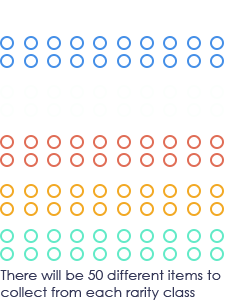
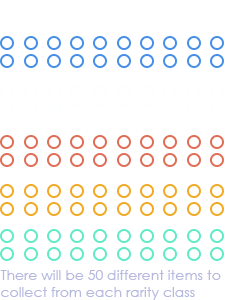
# Changed Gizer Token Section

Changed region(s): [[0.0, 0.9, 0.9956, 1.0]]

diff --git a/src/app/shared/components/gzr-token/gzr-token.component.html b/src/app/shared/components/gzr-token/gzr-token.component.html
@@ -24,10 +24,10 @@
       <div class="img-group">
         <div class="row">
           <div class="col-sm-6">
-            <img class="img-responsive mobileimgg" src="assets/images/img-percentage.png" alt="">
+            <img class="img-responsive mobileimgg w-100" src="assets/images/img-percentage.png" alt="">
           </div>
           <div class="col-sm-6 item_class">
-            <img class="img-responsive mobileimgg" src="assets/images/img-item-available.png" alt="">
+            <img class="img-responsive mobileimgg w-100" src="assets/images/img-item-available.png" alt="">
           </div>
         </div>
       </div>

diff --git a/src/app/shared/components/gzr-token/gzr-token.component.scss b/src/app/shared/components/gzr-token/gzr-token.component.scss
@@ -45,14 +45,14 @@
             margin-bottom: 16px;
             margin-left: 10px;
             font-family: "Century Gothic";
-            color: #42456b;
+            color: #b6b9df;
             text-transform: uppercase;
         }
         h5 {
             font-size: 16px;
             margin-top: 10px;
             font-family: "Century Gothic";
-            color: #36385a;
+            color: #b6b9df;
         }
     }
 }
